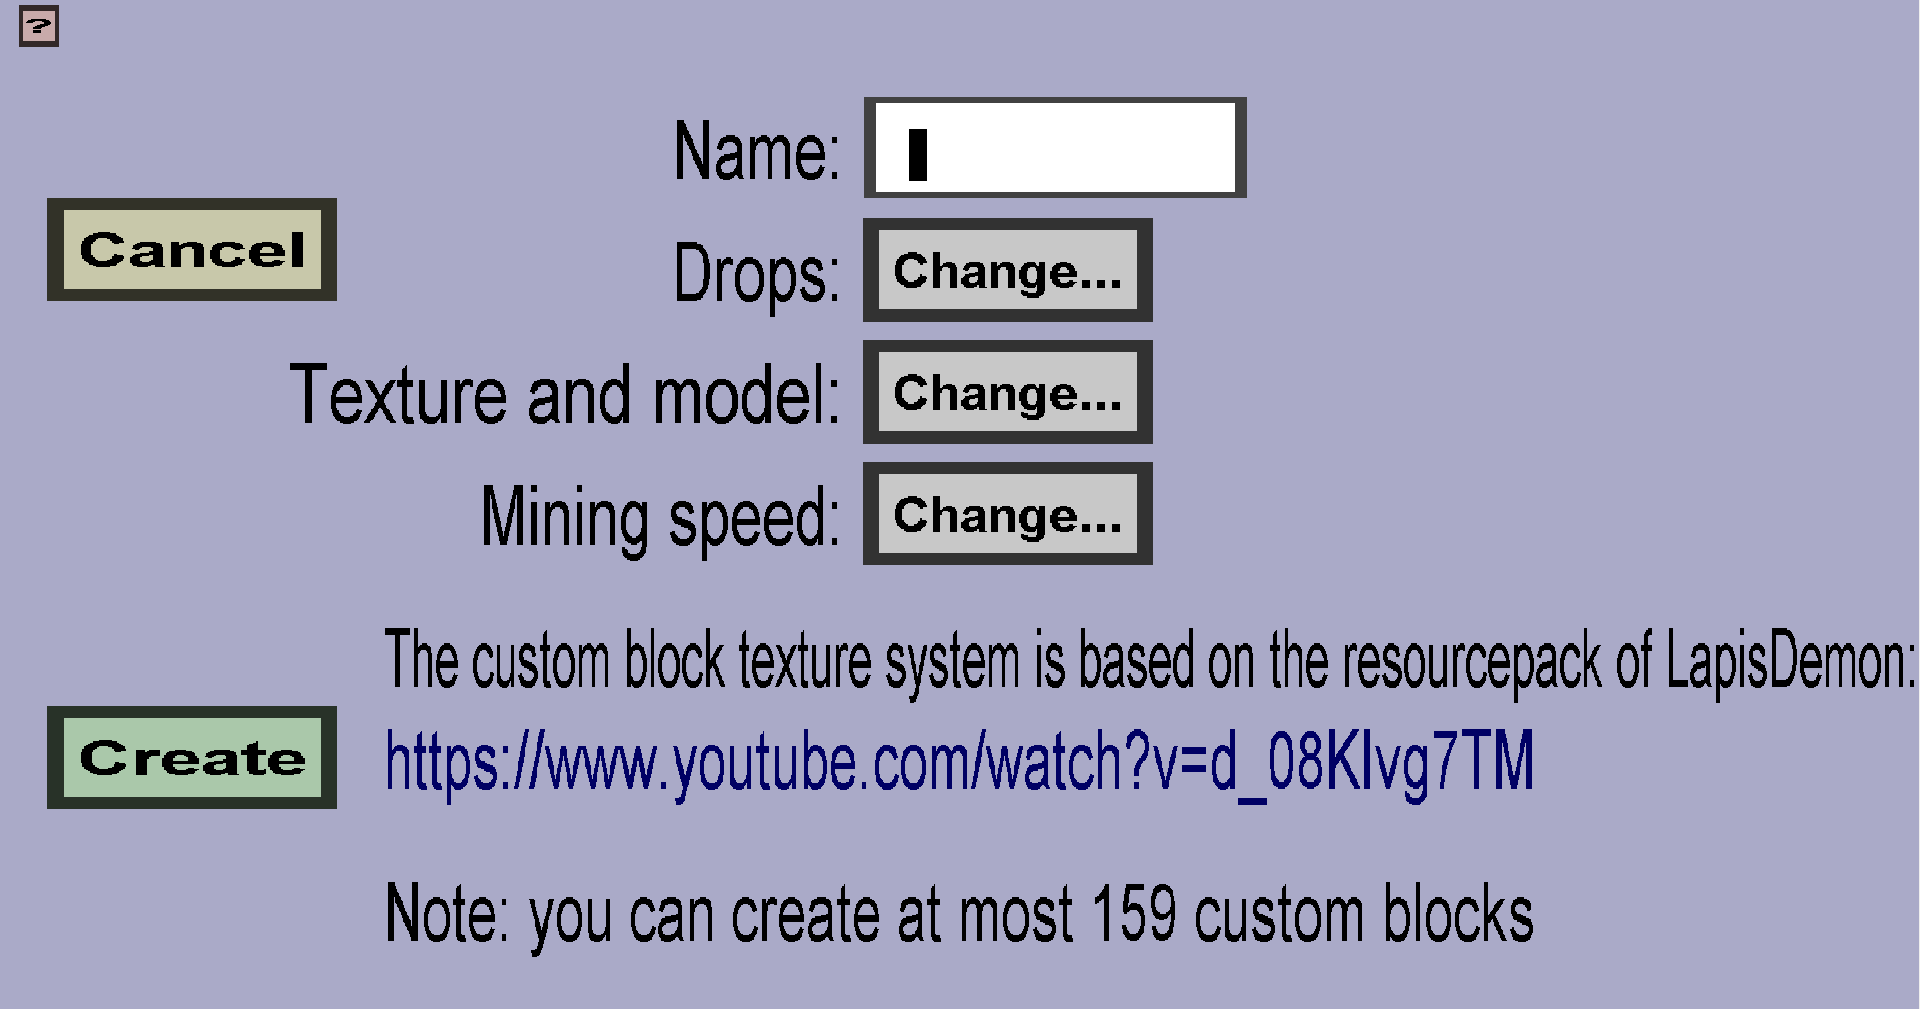
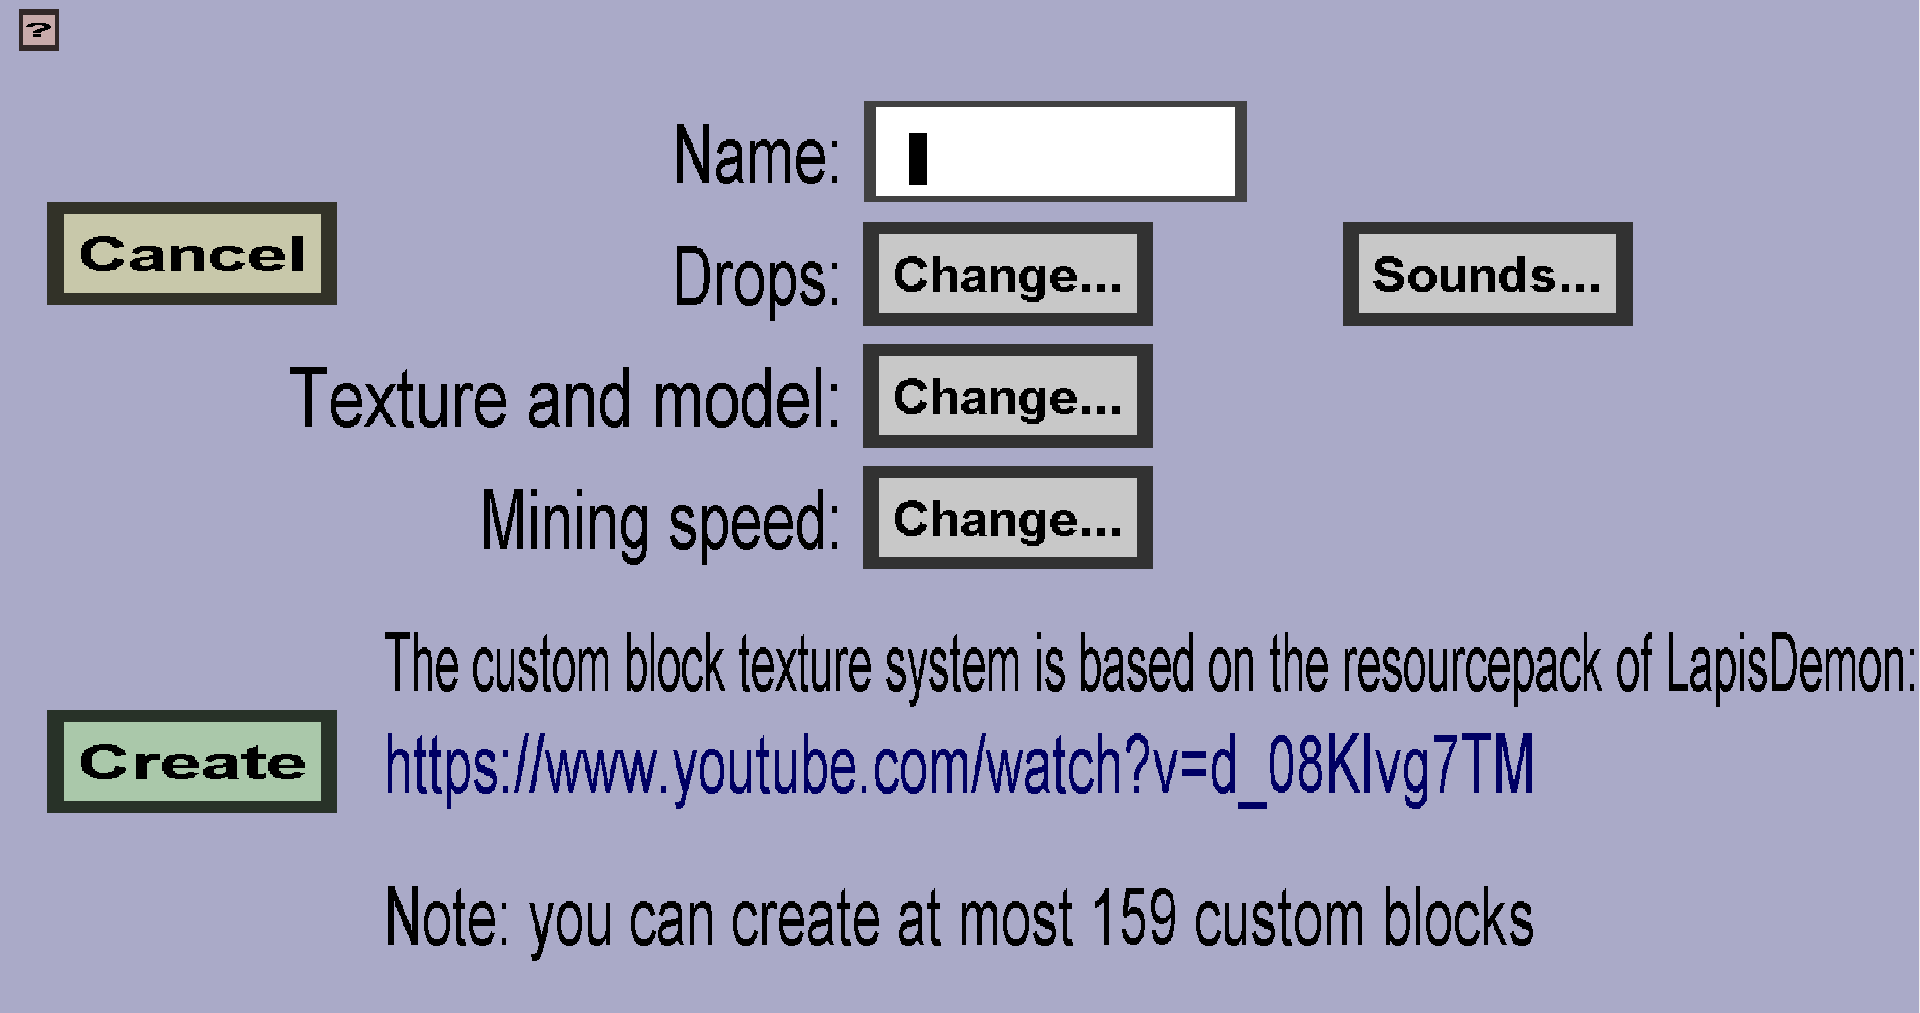
Document the new custom block sounds of KCI 12

diff --git a/custom items/editor documentation/edit menu/blocks/sounds.html b/custom items/editor documentation/edit menu/blocks/sounds.html
@@ -1,0 +1,19 @@
+<!DOCTYPE html>
+<html>
+    <head>
+        <meta charset="UTF-8" />
+        <title>Block sounds menu</title>
+    </head>
+    <body>
+        <p>
+            The block sounds menu can be used to configure the sounds of a custom block. It should look like this:
+        </p>
+        <img src="sounds.png" width="50%" />
+        <p><b>Note: the vanilla mushroom block sounds will also be played, regardless of what you configure here.</b></p>
+        <p>
+            Each sound is optional. You can choose a sound by clicking on the corresponding button and you can
+            remove a sound (after you have selected one) by clicking on the red cross on the left 
+            of the corresponding button.
+        </p>
+    </body>
+</html>

diff --git a/custom items/editor documentation/edit menu/blocks/edit.html b/custom items/editor documentation/edit menu/blocks/edit.html
@@ -48,6 +48,11 @@
                 <i>Change...</i> button will take you to the <a href="miningspeed.html">mining speed menu</a>,
                 where you can configure it.
             </li>
+            <li>
+                The <i>Sounds</i> can be used to configure which sounds will be played when the player
+                performs specific interactions with the block. Note: the player will <b>also</b>
+                hear the mushroom block sounds.
+            </li>
         </ul>
     </body>
 </html>
